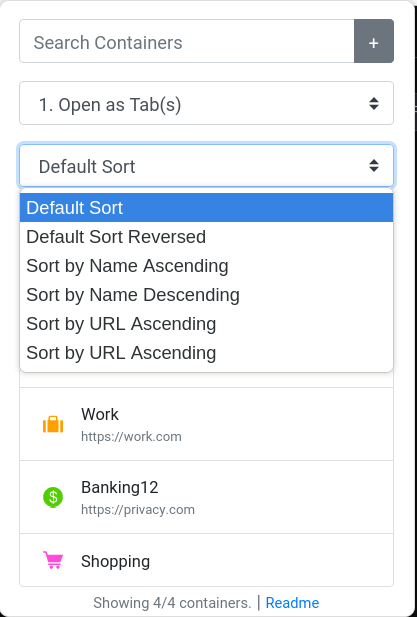
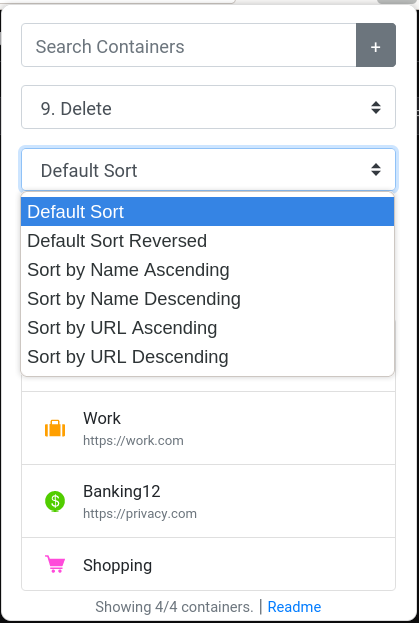
fix 'sort url ascending' #40; replace 'alert' calls with bootstrap modals; v0.0.28 bump

diff --git a/src/context.js b/src/context.js
@@ -64,7 +64,6 @@ const CONTEXT_COLORS = [
     "toolbar",
 ];
 
-
 /**
  * All allowable container (context) icons.
  * TODO: jsdoc this as enum?
@@ -87,7 +86,6 @@ const CONTEXT_ICONS = [
     "chill",
     "fence",
 ];
-
 
 /**
  * Random list of help messages to show in the Help Text area.
@@ -175,6 +173,14 @@ const SORT_MODE_URL_ASC = 'url-a';
 const SORT_MODE_URL_DESC = 'url-d';
 const SORT_MODE_NONE = 'none';
 const SORT_MODE_NONE_REVERSE = 'none-r';
+const MODAL_ID = "modal";
+const MODAL_BODY_TEXT_ID = "modalBodyText"
+const MODAL_TITLE_TEXT_ID = "modalTitle"
+const MODAL_CLASS_SHOW = 'modal-show'
+const MODAL_CLASS_OPEN = 'modal-open'
+const MODAL_CLASS_HIDE = 'modal-hide'
+const MODAL_BTN_SECONDARY = 'btnModalSecondary';
+const MODAL_BTN_PRIMARY = 'btnModalPrimary';
 
 /**
  * All configuration options for this web extension are stored in this object.
@@ -307,6 +313,64 @@ const config = {
      */
     openCurrentTabUrlOnMatch: "",
 };
+
+const hideAlertEvent = (event) => {
+    hideAlert();
+}
+
+const hideAlert = () => {
+    const modal = document.getElementById(MODAL_ID);
+    modal.classList.remove(MODAL_CLASS_SHOW);
+    modal.classList.add(MODAL_CLASS_HIDE);
+    const modalText = document.getElementById(MODAL_BODY_TEXT_ID);
+    modalText.innerText = '';
+    const modalTitle = document.getElementById(MODAL_TITLE_TEXT_ID);
+    modalTitle.innerText = '';
+}
+
+/**
+ * Shows a simple modal with the provided alert message. Clears out any
+ * existing event handlers for the primary & secondary input buttons.
+ *
+ * @param {string} msg The message to show in the modal. Text-only for safety.
+ * @param {string} title The message to show in the modal. Text-only for safety.
+ */
+const showAlert = (msg, title) => {
+    const txt = document.getElementById(MODAL_BODY_TEXT_ID);
+    const titleElement = document.getElementById(MODAL_TITLE_TEXT_ID);
+    const btnModalPrimary = document.getElementById(MODAL_BTN_PRIMARY);
+    // const btnModalSecondary = document.getElementById(MODAL_BTN_SECONDARY);
+    const modal = document.getElementById(MODAL_ID);
+
+    if (!txt || !titleElement || !btnModalPrimary /* || !btnModalSecondary */) {
+        console.debug('missing element by id for show alert modal');
+        return
+    }
+
+    txt.innerText = msg;
+    titleElement.innerText = title;
+
+    // TODO: these currently serve as boilerplate for future upcoming work
+    // regarding migrating confirm/prompt/alert dialogs with multiple buttons,
+    // so they will stay commented out for now
+    // btnModalSecondary.classList.remove(MODAL_CLASS_SHOW);
+    // btnModalSecondary.classList.add(MODAL_CLASS_HIDE);
+
+    // remove all existing event listeners from both primary and secondary
+    // buttons
+    // const newBtnModalSecondary = btnModalSecondary.cloneNode(true);
+    const newBtnModalPrimary = btnModalPrimary.cloneNode(true);
+
+    // btnModalSecondary.parentNode.appendChild(newBtnModalSecondary);
+    btnModalPrimary.parentNode.appendChild(newBtnModalPrimary);
+    // btnModalSecondary.parentNode.removeChild(btnModalSecondary);
+    btnModalPrimary.parentNode.removeChild(btnModalPrimary);
+
+    modal.classList.remove(MODAL_CLASS_HIDE);
+    modal.classList.add(MODAL_CLASS_SHOW, MODAL_CLASS_OPEN);
+
+    newBtnModalPrimary.addEventListener('click', hideAlertEvent);
+}
 
 /**
  * Quickly checks to see if a context is selected, via the selection mode
@@ -726,9 +790,11 @@ const deleteMultipleContainers = (contextsToDelete) => {
     });
 
     if (actualContextsToDelete.length === 0) {
-        alert(`There aren't any valid targets to delete, so there is nothing to do.`);
+        showAlert(`There aren't any valid targets to delete, so there is nothing to do.`, 'Nothing to Delete');
         return;
     }
+
+    const errors = [];
 
     if (confirm(dialogStr) && confirm(`Are you absolutely sure you want to delete ${actualContextsToDelete.length} container(s)? This is not reversible.`)) {
         // delete every context
@@ -742,11 +808,15 @@ const deleteMultipleContainers = (contextsToDelete) => {
                 },
                 (error) => {
                     if (error) {
-                        alert(`Error deleting container ${context.name}: ${error}`);
+                        errors.append(`Error deleting container ${context.name}: ${error}`);
                     }
                 }
             );
         });
+
+        if (errors.length > 0) {
+            showAlert(errors.join('\n'), 'Deletion Error(s)');
+        }
         return;
     }
 };
@@ -890,10 +960,6 @@ const openMultipleContexts = async (contextsToOpenAsContainers, openAsPinnedTab,
 const renameContexts = (contextsToRename) => {
     const userInput = prompt(`Rename ${contextsToRename.length} container(s) to:`);
     if (userInput) {
-        if (userInput.length > 25) {
-            alert('Container names must be no more than 25 characters.');
-            return;
-        }
         let updatedContexts = [];
         contextsToRename.forEach((contextToRename) => {
             browser.contextualIdentities.update(
@@ -906,7 +972,7 @@ const renameContexts = (contextsToRename) => {
                 },
                 (err) => {
                     if (err) {
-                        alert(`Failed to update containers: ${JSON.stringify(err)}`);
+                        showAlert(`Failed to update containers: ${JSON.stringify(err)}`, 'Container Rename Error');
                     }
                 }
             );
@@ -936,7 +1002,7 @@ const updateContexts = (contextsToUpdate, fieldToUpdate, valueToSet) => {
             },
             (err) => {
                 if (err) {
-                    alert(`Failed to update containers: ${JSON.stringify(err)}`);
+                    showAlert(`Failed to update containers: ${JSON.stringify(err)}`, 'Container Update Error');
                 }
             }
         );
@@ -1001,7 +1067,7 @@ const findReplaceNameInContexts = (contextsToUpdate) => {
                         },
                         (err) => {
                             if (err) {
-                                alert(`Failed to update containers: ${JSON.stringify(err)}`);
+                                showAlert(`Failed to update container(s): ${JSON.stringify(err)}`, 'Container Rename Error');
                             }
                         }
                     );
@@ -1077,7 +1143,7 @@ const duplicateContexts = (contextsToDuplicate) => {
                 },
                 (err) => {
                     if (err) {
-                        alert(`Failed to duplicate one or more containers: ${JSON.stringify(err)}`);
+                        showAlert(`Failed to duplicate one or more containers: ${JSON.stringify(err)}`, 'Duplication Error');
                     }
                 }
             );
@@ -1108,12 +1174,12 @@ const addContext = () => {
             },
             (err) => {
                 if (err) {
-                    alert(`Failed to create a container named ${containerName}: ${JSON.stringify(err)}`);
+                    showAlert(`Failed to create a container named ${containerName}: ${JSON.stringify(err)}`, 'Creation Error');
                 }
             }
         );
     } else {
-        alert("You must specify a container name in the input field.")
+        showAlert("You must specify a container name in the input field.", 'No Name Provided');
     }
 };
 

diff --git a/src/popup.html b/src/popup.html
@@ -10,6 +10,23 @@
 
 <body>
     <div class="container-fluid mt-3" id="mainDivContainer">
+        <div class="modal modal-backdrop modal-hide" id="modal" tabindex="-1" role="dialog" aria-labelledby="modalTitle"
+            aria-hidden="true">
+            <div class="modal-dialog modal-dialog-centered" role="document">
+                <div class="modal-content">
+                    <div class="modal-header">
+                        <h5 class="modal-title" id="modalTitle">Modal title</h5>
+                    </div>
+                    <div class="modal-body">
+                        <span id="modalBodyText">Filler text.</span>
+                    </div>
+                    <div class="modal-footer">
+                        <!-- <button type="button" id="btnModalSecondary" class="btn btn-secondary">Close</button> -->
+                        <button type="button" id="btnModalPrimary" class="btn btn-primary">OK</button>
+                    </div>
+                </div>
+            </div>
+        </div>
         <form id="searchContainerForm">
             <div class="form-group form-row">
                 <div class="col-12">
@@ -45,7 +62,7 @@
                         <option value="name-a">Sort by Name Ascending</option>
                         <option value="name-d">Sort by Name Descending</option>
                         <option value="url-a">Sort by URL Ascending</option>
-                        <option value="url-d">Sort by URL Ascending</option>
+                        <option value="url-d">Sort by URL Descending</option>
                     </select>
                 </div>
             </div>

diff --git a/src/css/custom.css b/src/css/custom.css
@@ -49,3 +49,22 @@ body {
     font-family: 'Courier New', Courier, monospace;
     text-align: center;
 }
+
+.modal-show {
+    display: block;
+    padding-right: 0px;
+}
+
+.modal-hide {
+    display: none;
+}
+
+.modal-backdrop {
+    position: fixed;
+    top: 0;
+    left: 0;
+    z-index: 1040;
+    width: 100vw;
+    height: 100vh;
+    background-color: rgba(0,0,0,0.5);
+}

diff --git a/CHANGELOG.md b/CHANGELOG.md
@@ -2,6 +2,12 @@
 
 This changelog contains all relevant changes between different versions of the extension.
 
+## v0.0.28
+
+* Container names no longer are limited to 25 characters. This was previously an API limitation that now seems to have been removed at some point, thank you Mozilla! As a result, the "Set Name" option now allows you to set a name longer than 25 characters. The "+" button did not have this same length check, so its behavior has not been changed.
+* Replaced all javascript "alert" calls with proper modals. This is part of an incremental effort to replace all native JS dialogs such as "confirm", "prompt" and "alert" with proper CSS-enabled modals.
+* Fix https://github.com/cmcode-dev/firefox-containers-helper/issues/40 - the Sort by URL Descending menu option is now correct.
+
 ## v0.0.27
 
 * fixes https://github.com/cmcode-dev/firefox-containers-helper/issues/33 - in some scenarios, the selected items are preserved when they should be reset. Now, the behavior has been updated to de-select all containers when a delete or duplicate action takes place.
